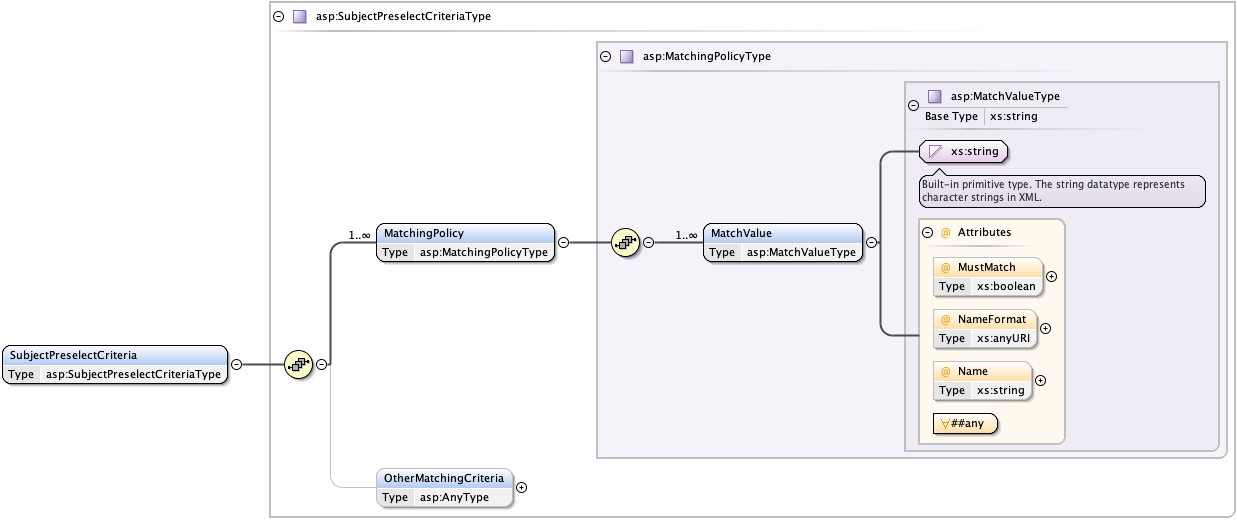
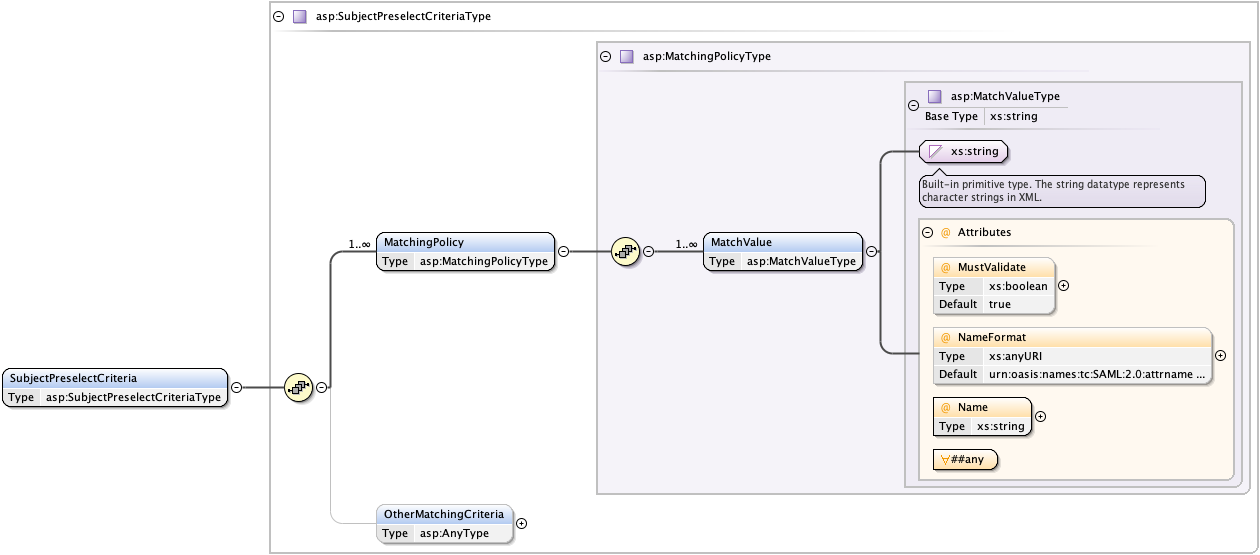
Fixed ToC and images

Changed region(s): [[0.0, 0.0, 1.0, 0.8923], [0.215, 0.8923, 1.0, 1.0]]

diff --git a/ELN-0614 - Subject Preslection in SAML Authn Requests.md b/ELN-0614 - Subject Preslection in SAML Authn Requests.md
@@ -10,7 +10,29 @@
 
 ## Table of Contents
 
+1. [**Introduction**](#introduction)
 
+    1.1. [Requirement key words](#requirement-key-words)
+
+    1.2. [XML name space references](#xml-name-space-references)
+
+    1.3. [Structure](#structure)
+
+2. [**Data elements**](#data-elements)
+
+    2.1. [Subject Preselect Criteria](#subject-preselect-criteria)
+
+    2.2. [MatchingPolicy](#matchingpolicy)
+
+3. [**Examples**](#examples)
+
+4. [**Schemas**](#schemas)
+
+5. [**Normative References**](#normative-references)
+
+6. [**Changes between versions**](#changes-between-versions)
+
+<a name="introduction"></a>
 ## 1. Introduction
 
 Authentication of users sometimes require a specific user to be authenticated, in particular in the case when the user authenticates to a signature service to sign a document in a context where the signer already has been authenticated.
@@ -19,7 +41,7 @@ Some Identity Providers, such an Identity Provider acting as proxy to BankID (Se
 
 This specification defines an element that may be included in the `<Extensions>` element of a SAML AuthnRequest where the requesting service provider can specify matching criteria that may be used by the IdP to preselect the particular user that should be authenticated.
 
-
+<a name="requirement-key-words"></a>
 ### 1.1. Requirement key words
 
 The key words **MUST**, **MUST** **NOT**, **REQUIRED**, **SHALL**,
@@ -29,20 +51,29 @@ The key words **MUST**, **MUST** **NOT**, **REQUIRED**, **SHALL**,
 
 These keywords are capitalized when used to unambiguously specify requirements over protocol features and behavior that affect the interoperability and security of implementations. When these words are not capitalized, they are meant in their natural-language sense.
 
+<a name="xml-name-space-references"></a>
 ### 1.2. XML name space references
 
 The prefix **asp:** stands for the Authenticated Subject Preselection XML Schema namespace `http://id.swedenconnect.se/authn/1.0/subject-preselect/ns` (https://elegnamnden.github.io/schemas/...). 
 
 The prefix **saml2:** stands for the OASIS SAML 2 Assertion Schema namespace `urn:oasis:names:tc:SAML:2.0:assertion`.
 
+<a name="structure"></a>
 ### 1.3. Structure
 
 This specification uses the following typographical conventions in text:
 `<LocalElement>`, `<ns:ForeignElement>`, `Attribute`, **Datatype**,
 `OtherCode`.
 
+<a name="data-elements"></a>
 ## 2. Data elements
 
+This specification defines the element `<SubjectPreselectCriteria>` to be included in the <Extensions> element of an AuhtnRequest. 
+
+This element MAY be used by an IdentityProvider to preselect the subject to authenticate. The `<SubjectPreselectCriteria>` element is outlined in the following illustration:
+
+<img src="img/SubjectPreselectCriteriaElement.png"></img>
+<a name="subject-preselect-criteria"></a>
 ### 2.1. Subject Preselect Criteria
 
 The Subject Preselect  Criteria is provided in a `<SubjectPreselectCriteria>` element. The element has the following elements and attributes:
@@ -68,7 +99,8 @@ The following schema fragment defines the `<SubjectPreselectCriteria>` element:
 
 
 
-### 2.1. MatchingPolicy
+<a name="matchingpolicy"></a>
+### 2.2. MatchingPolicy
 
 The matching policy `<MatchingPolicy>` element contains one or more `<MatchValue>` elements. 
 
@@ -84,7 +116,7 @@ The `<MatchValue>` element contains a string value to be matched against the pre
 
 `MustValidate` \[Default `true`\]
 
-> When set to `true`, this indicates that the value of the specified type of this element MUST match the preselected subject and that the Identity Provider MUST verify this value in the authentication process. A value of `false` means that the Identity Provider does not have to verify this value and may rely entirely on other present match criteria to identify the preselected subject.
+> When set to `true`, this indicates that the specified value MUST match a validated property of the preselected user for this preselect match criteria to be satisfied. A value of `false` means that the Identity Provider MAY ignore this value and MAY rely entirely on other present `<MatchValue>` elements to match against the preselected subject.
 
 `##any` \[Optional\]
 
@@ -116,6 +148,7 @@ The following schema fragment defines the `<MatchingPolicyType>` complex type:
 
 
 
+<a name="examples"></a>
 ## 3. Examples
 
     <asp:SubjectPreselectCriteria xmlns:asp="http://id.swedenconnect.se/authn/1.0/subject-preselect/ns">
@@ -140,6 +173,7 @@ The following schema fragment defines the `<MatchingPolicyType>` complex type:
 
 Attributes in the examples above are specified in [[ELN-0604](eln-0604)].
 
+<a name="schemas"></a>
 ## 4. Schemas
 The following XML schema defines the `http://id.swedenconnect.se/authn/1.0/subject-preselect/ns` name space:
 
@@ -185,6 +219,7 @@ The following XML schema defines the `http://id.swedenconnect.se/authn/1.0/subje
         </xs:complexType>
     </xs:schema>
 
+<a name="normative-references"></a>
 ## 5. Normative References
 
 <a name="rfc2119"></a>**[RFC2119]**
@@ -204,6 +239,7 @@ The following XML schema defines the `http://id.swedenconnect.se/authn/1.0/subje
 
 > [Implementation Profile for BankID Identity Providers within the Swedish eID Framework](http://docs.swedenconnect.se/technical-framework/latest/ELN-0612_-_BankID_Profile_for_the_Swedish_eID_Framework.html).
 
+<a name="changes-between-versions"></a>
 ## 6. Changes between versions
 
 This is the first version of this draft.
